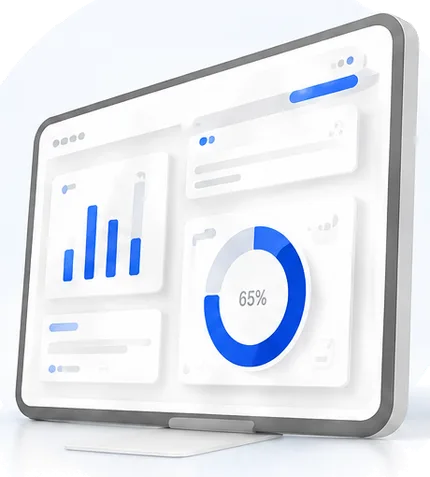
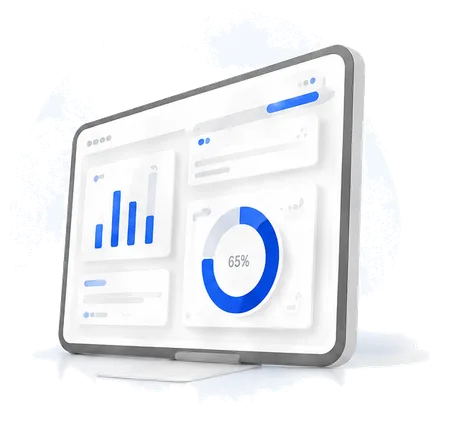
fix(홈화면): 역할 카드 그림 재작업(투명 처리 실패 수정) + 거짓 주석 정정
재검수 지적 반영. 직전 커밋에서 내가 만든 결함 2건이 핵심.

🔴 이미지 투명 처리가 사실상 안 됐다
  배경 판정을 "순백(min≥252)"으로 했는데 **원본 배경이 순백이 아니라 연파랑(약 241,247,254)** 이라
  모서리 조금만 지워졌다(투명 1.7%). 결과: 막으려던 그 네모(연파랑 사각형)를 카드에 깔았다.
  → 네 모서리 실측색 + 허용오차 방식으로 재작업. 일러스트를 후광까지 **통째로** 감싸 자르고
    흰 여백만 지웠다(투명 37%/50%, 사방 여백 확보). 20.7KB / 30.5KB.
  → 허용오차 40으로 후광까지 지우면 기기를 더 크게 쓸 수 있으나 **일러스트가 상한다**
    (배지 스캔 프레임·방패가 갉아먹힘 — 만들어 보고 확인). 주석에 남겼다.

🔧 카드 구조를 절대배치 → 가로 2칸(글 | 그림)으로 변경
  예전 방식은 그림 폭과 `padding-right`가 짝이라 한쪽만 고치면 글자가 그림에 겹쳤다.
  2칸 배치로 그 규칙 자체를 없앴다(.landing-role-body / -lg CSS 삭제).
  그림 폭 200px 근거: 카드 안쪽 456 − 항목 한 줄 최대 필요폭(실측 248) − 간격 18 = 190. +10 여유.
  230으로 뒀을 때는 8개 항목이 전부 두 줄이 됐다(실측) → 200에서 1개만 두 줄(원래 디자인과 같은 수준).

📝 거짓이 된 주석 정정
  - "실고객·최근 인증이 없으면 stats.enough=false" → 없는 필드 + 정반대 서술이었다.
  - "enough 조건 때문에 전부 0인 경우는 오지 않는다" → **지금 전부 0이 실제 상태**다.
    그 옆 `|| 1`이 유일한 0나누기 방어라 주석을 믿고 지우면 차트가 NaN으로 깨진다.
  - project-status.md의 "도넛 n=1 공개 구멍을 잡았다" → 같은 날 되돌렸음을 명시.

🔴 사장님 결정 1건 등재(0-N②): 도넛만 최소 인원을 되살릴지.
  방식을 고른 사람이 1명이면 "얼굴인증 100%"가 되어 그 사람의 생체정보 동의 사실이 공개된다
  (얼굴=민감정보, 사규 6항). 나머지 3개 기준과 성격이 다르다.

검증: tsc·eslint 0오류. 3001 실서버 1280/700/641/375px 실측 — 그림 로드(200×184 / 200×190),
글자·그림 겹침 0, 그림 카드 안, 카드 높이 300 동일, 두 줄 항목 1개, 640px 이하 그림 숨김,
가로 스크롤 0, 서버 응답 전부 200. 카드 바탕에 합성해 네모가 사라진 것도 눈으로 확인.

diff --git a/webapp/app/page.tsx b/webapp/app/page.tsx
@@ -105,8 +105,8 @@ const svg = (path: string, size = 22) =>
   `<svg width="${size}" height="${size}" viewBox="0 0 24 24" fill="none" stroke="currentColor" stroke-width="2" stroke-linecap="round" stroke-linejoin="round">${path}</svg>`;
 
 export default async function Home() {
-  // 홈화면 미리보기에 쓸 **실제 통계**. 실고객·최근 인증이 없으면 stats.enough=false로 오고,
-  // 그때는 미리보기 카드를 아예 렌더하지 않는다(0건·평평한 그래프를 판매 화면에 띄우지 않는다).
+  // 홈화면 미리보기에 쓸 **실제 통계**. 값이 0이어도 그대로 보여준다("처음부터 보여줘", 2026-08-09).
+  // 미리보기를 감추는 경우는 **DB 조회 실패(live.ok === false)** 하나뿐이다.
   // ⚠ 변수명이 `live`인 이유: 이 파일에는 아래쪽 숫자 밴드용 모듈 상수 `stats`가 이미 있다.
   //    `stats`로 두면 그것을 덮어버려 밴드가 깨진다(실제로 한 번 깨뜨렸다).
   const live = await getLandingStats();
@@ -446,7 +446,10 @@ function TrendChart({ trend, gradientId = "trendFill" }: { trend: { label: strin
   //    여기는 광고 화면이고 지표가 "건수"라 0 기준이 정직하다. **MIN을 다시 데이터에 맞추지 말 것.**
   const MIN = 0;
   // 눈금 간격: (최댓값 / 4)를 넘는 가장 작은 "보기 좋은 수" → 눈금이 3~5개로 떨어진다.
-  // 값이 전부 0이어도 0으로 나누지 않게 || 1. (실제로는 enough 조건 때문에 전부 0인 경우는 오지 않는다)
+  // 🔴 `|| 1`은 **0으로 나누기를 막는 유일한 방어**다. 지우면 hi=0에서 Math.log10(0)=-Infinity →
+  //    mag=0 → step=NaN이 되어 차트가 즉시 깨진다. 그리고 **"전부 0"은 지금 실제로 일어나는 상태다**
+  //    (실고객이 아직 0개사라 KPI·추이가 전부 0). 예전 주석은 "감추는 조건 때문에 0인 경우는 안 온다"고
+  //    적혀 있었는데, 그 조건을 없앴으므로(2026-08-09) 거짓이 됐다. **절대 정리하지 말 것.**
   const rough = hi / 4 || 1;
   const mag = Math.pow(10, Math.floor(Math.log10(rough)));
   // ⚠ 2.5는 **자리수(mag)가 10 이상일 때만** 후보로 쓴다. mag=1에서 2.5가 뽑히면 눈금이
@@ -612,17 +615,43 @@ function AuthDonut({ authMix }: { authMix: { label: string; pct: number }[] }) {
   );
 }
 
+// ── 역할 카드 ─────────────────────────────────────────────────────
+// 2026-08-09 사장님 지시로 오른쪽 그림을 제공 일러스트로 교체했다. 그러면서 **구조도 바꿨다**:
+//  · 예전: SVG 기기 테두리를 카드 오른쪽 아래에 **절대배치**로 얹고, 그 위에 우리 화면을 본뜬 UI
+//         (출근 버튼·관리자 메뉴바·KPI 칸)를 손으로 그려 넣었다. 글자가 그림 위로 올라타지 않게
+//         `padding-right`로 자리를 비워 뒀는데, **그림 폭과 그 값이 짝**이라 한쪽만 고치면 겹쳤다.
+//  · 지금: 카드 안을 **가로 2칸(글 | 그림)**으로 나눈다. 그림이 자기 자리를 차지하므로 겹칠 수가 없고
+//         `padding-right` 짝 맞추기도 필요 없다(그 CSS는 지웠다). 얹었던 UI도 삭제 —
+//         일러스트에 화면이 이미 그려져 있어 두 개가 겹쳤다.
+//
+// 그림은 사장님 원본(1536×1024)에서 **일러스트 한 덩어리씩 통째로** 잘랐다(후광 원 포함):
+//   role-employee.webp ← 원본 (90,168)에서 672×618 → 460px폭
+//   role-admin.webp    ← 원본 (834,176)에서 648×614 → 460px폭
+//   방식: 네 모서리 색을 배경으로 잡고 **허용오차 10 안쪽만 가장자리부터 채워** 투명 처리 → WebP(q82/알파90).
+// ⚠ 배경 판정을 "순백(min≥252)"으로 하면 **거의 지워지지 않는다** — 원본 배경이 순백이 아니라
+//    연파랑(약 241,247,254)인 자리도 있어서다. 실제로 그렇게 했다가 투명 픽셀이 1.7%뿐이어서
+//    카드 위에 **연파랑 네모가 그대로 드러났다**(검수 지적). **반드시 모서리 실측색 + 허용오차로 할 것.**
+// ⚠ 후광이 잘리지 않게 일러스트 **전체**를 감싸 자른다. 안쪽에서 자르면 후광 단면이 직선으로 남는다.
+// ⚠ 허용오차를 40까지 올려 후광까지 지우면 기기를 더 크게 쓸 수 있지만, **일러스트가 상한다** —
+//    배지 주변 스캔 프레임과 방패(연파랑 ~200~220)가 갉아먹혔다(실제로 만들어 보고 확인). 10을 유지할 것.
+//
+// ⚠ 그림 폭 200px의 근거: 카드 안쪽 폭 456 − 글 항목이 한 줄에 필요한 최대폭(실측 248) − 간격 18 = 190.
+//    여기에 10px 더해 200으로 잡았다(8개 항목 중 가장 긴 1개만 두 줄). **더 키우면 항목이 전부 두 줄이 된다**
+//    (230으로 했을 때 실측: 글자 폭 208 → 8개 전부 두 줄). 글을 늘리거나 줄이면 이 값을 다시 재야 한다.
+const ROLE_ART_W = 200;
 function RoleCard({ title, sub, items, iconPath, device }: { title: string; sub: string; items: string[]; iconPath: string; device: "phone" | "laptop" }) {
+  // 두 그림의 가로:세로가 조금 달라 각자 넘긴다(460×423 / 460×436)
+  const art = device === "phone"
+    ? { src: "/role-employee.webp", w: 460, h: 423 }
+    : { src: "/role-admin.webp", w: 460, h: 436 };
+  const h = Math.round((ROLE_ART_W * art.h) / art.w);
   return (
-    // 최소 높이(그림 236px + 아래 여백 18px이 잘리지 않게)는 globals.css의 .landing-role-card에 있다.
+    // 최소 높이는 globals.css의 .landing-role-card에 있다.
     // ⚠ 인라인으로 두면 안 된다 — 기기 그림이 사라지는 좁은 화면(≤640px)에서 해제할 방법이 없어
     //    그림도 없는 카드 아래에 빈 띠가 남는다(검수 지적).
-    <div className="landing-role-card" style={{ position: "relative", overflow: "hidden", background: "var(--landing-card,#fff)", borderRadius: 16, padding: "28px 26px", boxShadow: "0 8px 30px var(--landing-shadow)" }}>
-      {/* 두 그림의 세로/가로 비율이 조금 달라 각자 넘긴다(430×471 / 430×477) */}
-      {device === "phone"
-        ? <RoleArt src="/role-employee.webp" ratio={430 / 471} />
-        : <RoleArt src="/role-admin.webp" ratio={430 / 477} />}
-      <div className={device === "phone" ? "landing-role-body" : "landing-role-body-lg"}>
+    <div className="landing-role-card" style={{ display: "flex", alignItems: "center", gap: 18, overflow: "hidden", background: "var(--landing-card,#fff)", borderRadius: 16, padding: "28px 26px", boxShadow: "0 8px 30px var(--landing-shadow)" }}>
+      {/* minWidth: 0 — 없으면 글자가 안 줄어들어 그림을 밀어내고 카드가 가로로 넘친다(격자 기본값 함정) */}
+      <div style={{ flex: 1, minWidth: 0 }}>
         <div style={{ display: "flex", alignItems: "center", gap: 12, marginBottom: 20 }}>
           <div style={{ width: 40, height: 40, borderRadius: 11, background: "linear-gradient(135deg,#2563EB,#60A5FA)", color: "#fff", display: "flex", alignItems: "center", justifyContent: "center", flexShrink: 0 }} dangerouslySetInnerHTML={{ __html: svg(iconPath, 20) }} />
           <div>
@@ -639,30 +668,8 @@ function RoleCard({ title, sub, items, iconPath, device }: { title: string; sub:
           ))}
         </div>
       </div>
-    </div>
-  );
-}
-
-// ── 역할 카드 오른쪽 그림 ─────────────────────────────────────────
-// 2026-08-09: 예전에는 SVG 기기 테두리 위에 우리 화면을 본뜬 UI(출근 버튼·관리자 메뉴바·KPI 칸)를
-// **손으로 얹어** 만들었다. 사장님이 3D 일러스트를 주셔서 그림 한 장으로 갈아끼웠고,
-// 얹었던 UI는 함께 지웠다(일러스트에 화면이 이미 그려져 있어 두 개가 겹쳤다).
-//
-// 이미지는 사장님 원본(1536×1024, 흰 배경)에서 두 덩어리를 잘라 만들었다:
-//   role-employee.webp ← 원본 185,215 위치에서 470×515 (폰 + 얼굴인식 배지 + 방패)
-//   role-admin.webp    ← 원본 900,225 위치에서 460×510 (모니터 대시보드)
-// ⚠ **테두리에 붙은 순백색만 투명 처리**했다(폰 화면 안쪽 흰색은 테두리와 이어지지 않아 살아남는다).
-//    통째로 흰 배경을 깔면 카드 바탕(위 흰색 → 아래 #F8FBFF 그라데이션) 위에 흰 네모가 드러난다.
-//    각 13~15KB. **원본을 다시 자를 일이 생기면 이 방식(가장자리 채우기)을 그대로 쓸 것.**
-//
-// ⚠ 표시 폭 215px은 globals.css `.landing-role-body{padding-right}`와 **짝**이다.
-//    글자가 그림 위로 올라타지 않게 비워 둔 자리이므로, 폭을 바꾸면 그 값도 함께 바꿔야 한다.
-const ROLE_ART_W = 215;
-function RoleArt({ src, ratio }: { src: string; ratio: number }) {
-  return (
-    <div className="landing-device" style={{ position: "absolute", right: 10, bottom: 18, width: ROLE_ART_W, height: Math.round(ROLE_ART_W / ratio), pointerEvents: "none" }}>
       {/* eslint-disable-next-line @next/next/no-img-element -- 크기가 고정된 장식용 이미지. 최적화 대상 아님 */}
-      <img src={src} alt="" width={ROLE_ART_W} height={Math.round(ROLE_ART_W / ratio)} />
+      <img className="landing-device" src={art.src} alt="" width={ROLE_ART_W} height={h} loading="lazy" decoding="async" style={{ flexShrink: 0 }} />
     </div>
   );
 }

diff --git a/webapp/app/globals.css b/webapp/app/globals.css
@@ -314,14 +314,10 @@ details.faq[open] > summary .faq-chevron { transform: rotate(180deg); }
   font-size: 11px; color: #9CA3AF; font-variant-numeric: tabular-nums;
 }
 
-/* 직원/관리자 카드 안 기기 그림 — 글 오른쪽에 자리를 비워 두고 그 자리에 얹는다.
-   ⚠ 236px = 그림 폭 215(page.tsx의 ROLE_ART_W) + 오른쪽 여백 10 + 글과의 간격 11.
-      **page.tsx에서 그림 폭을 바꾸면 이 값도 같이 바꿀 것** — 안 그러면 글자가 그림 위로 올라탄다.
-   ※ 2026-08-09 이전에는 폰(152px)과 노트북(232px)이 서로 달랐다. 두 그림 크기를 같게 맞춰서
-      값도 하나로 통일했지만, 클래스는 둘 다 남겨 뒀다(나중에 한쪽만 키울 수 있게). */
-.landing-role-body { padding-right: 236px; }
-.landing-role-body-lg { padding-right: 236px; }
-/* 그림 높이가 최대 238px(+아래 여백 18)이라 카드가 그보다 낮으면 그림 위가 잘린다 → 바닥값을 준다 */
+/* 직원/관리자 카드 — 카드 안이 가로 2칸(글 | 그림)이라 글자가 그림 위로 올라탈 수가 없다.
+   ※ 2026-08-09 이전에는 그림을 절대배치로 얹고 `.landing-role-body{padding-right}`로 자리를 비웠는데,
+      **그림 폭과 그 값이 짝**이라 한쪽만 고치면 글자가 그림에 겹쳤다. 2칸 배치로 바꿔 그 규칙을 없앴다.
+   두 카드의 높이를 맞추기 위한 바닥값만 남긴다(그림 높이 최대 218px + 위아래 여백 56px = 274px). */
 .landing-role-card { min-height: 300px; }
 
 @media (max-width: 1200px) {
@@ -345,11 +341,10 @@ details.faq[open] > summary .faq-chevron { transform: rotate(180deg); }
         **눈금·말풍선을 빼면 이 값을 700으로 되돌려도 된다.** */
   .landing-chart-grid { grid-template-columns: 1fr; }
 }
-/* 카드가 한 줄로 접히면 기기 그림이 글을 가릴 만큼 좁아진다 → 그림을 빼고 여백도 되돌린다 */
+/* 카드가 한 줄로 접히면 그림 몫(230px)까지 나눠 쓸 폭이 안 나온다 → 그림을 뺀다(글이 폭을 다 쓴다) */
 @media (max-width: 640px) {
   .landing-device { display: none; }
-  .landing-role-body, .landing-role-body-lg { padding-right: 0; }
-  /* 기기 그림이 사라졌으니 바닥값도 해제한다 — 안 그러면 카드 아래에 빈 띠만 남는다 */
+  /* 그림이 사라졌으니 바닥값도 해제한다 — 안 그러면 카드 아래에 빈 띠만 남는다 */
   .landing-role-card { min-height: 0; }
 
   /* 차트가 이보다 좁아지면(폰) 높이가 100px 아래로 떨어져 눈금 숫자가 서로 붙고,

diff --git a/webapp/lib/public-stats.ts b/webapp/lib/public-stats.ts
@@ -157,6 +157,11 @@ export async function getLandingStats(): Promise<LandingStats> {
     const gpsN = byMethod.find((m) => m.authMethod === "gps")?._count._all ?? 0;
     const pickedN = faceN + gpsN;
     // 아무도 방식을 고르지 않았으면(분모 0) 비율을 만들 수 없어 도넛을 비운다 — 화면은 꺾은선만 넓게 그린다.
+    // 🔴 **여기에는 최소 인원 기준이 없다.** 방식을 고른 사람이 1명이면 도넛은 "얼굴인증 100%"가 되고,
+    //    그건 통계가 아니라 **그 한 사람이 생체정보(얼굴) 이용에 동의했다는 사실**을 로그인 없이 공개하는 것이다
+    //    (얼굴=민감정보 — 상위 사규 6항). 예전에 `pickedN >= 10` 기준이 있었으나 2026-08-09에
+    //    "미리보기를 처음부터 보여줘" 지시로 다른 기준들과 함께 **되돌렸다**.
+    //    ⚠ 사장님 확인 대기 항목이다(project-status.md 0-N) — 도넛만 최소 인원을 되살릴지 결정이 필요하다.
     const facePct = pickedN > 0 ? Math.round((faceN / pickedN) * 100) : 0;
     const authMix = pickedN > 0
       ? [{ label: "얼굴인증", pct: facePct }, { label: "GPS", pct: 100 - facePct }]

diff --git a/project-status.md b/project-status.md
@@ -10,7 +10,7 @@
 
 | 순서 | 할 일 | 어디에 |
 |---|---|---|
-| 0-N | **🔴 홈화면 실데이터 — 약관에 반드시 넣을 조항 1건 + 확인 사항**(2026-08-09). ①**이용약관·개인정보처리방침에 "고객사 통계를 익명 합계로 공개 게시" 조항을 넣어야 한다** — 사장님이 "나중에 약관 만들 때 추가"로 확정. 0-B③(약관 페이지 자체가 없음)과 **반드시 함께** 처리한다. ⚠ 사장님 지시로 공개 최소 기준을 없애 **회사가 1곳일 때 그 회사(직원 1명이면 그 개인)의 근태가 공개되는 위험을 코드가 막지 않는다** — 이 조항이 그 근거가 된다 ②`㈜하늘테크` = **테스트 업체 확인 완료**(회사 5개 전부 `isDemo=true`) ③**테스트 회사 관리 화면 없음** — 앞으로 만드는 테스트 회사는 기본값이 "집계 포함"이라 DB에서 직접 `isDemo=true`로 바꿔야 함(사장님 확인 완료) | 아래 0-N-1 |
+| 0-N | **🔴 홈화면 실데이터 — 약관에 반드시 넣을 조항 1건 + 확인 사항**(2026-08-09). ①**이용약관·개인정보처리방침에 "고객사 통계를 익명 합계로 공개 게시" 조항을 넣어야 한다** — 사장님이 "나중에 약관 만들 때 추가"로 확정. 0-B③(약관 페이지 자체가 없음)과 **반드시 함께** 처리한다. ⚠ 사장님 지시로 공개 최소 기준을 없애 **회사가 1곳일 때 그 회사(직원 1명이면 그 개인)의 근태가 공개되는 위험을 코드가 막지 않는다** — 이 조항이 그 근거가 된다 ②**🔴 사장님 결정 1건 — 도넛(인증 방식 비율)만 최소 인원을 되살릴지.** "처음부터 보여줘"로 4개 기준을 다 없앴는데, 그중 이것 하나만 성격이 다르다: 방식을 고른 사람이 1명이면 도넛이 "얼굴인증 100%"가 되어 **그 사람이 생체정보(얼굴) 이용에 동의했다는 사실**이 로그인 없이 공개된다(얼굴=민감정보, 사규 6항). 나머지 3개(회사·직원·기록 수)는 그냥 보여줘도 되지만 이것만 "몇 명 이상일 때만 표시"로 둘지 결정 필요 ③`㈜하늘테크` = **테스트 업체 확인 완료**(회사 5개 전부 `isDemo=true`) ④**테스트 회사 관리 화면 없음** — 앞으로 만드는 테스트 회사는 기본값이 "집계 포함"이라 DB에서 직접 `isDemo=true`로 바꿔야 함(사장님 확인 완료) | 아래 0-N-1 |
 | 0-A | **🟠 홈화면 — 사장님 결정 4건 대기**(2026-08-06 작업분. ※①은 2026-08-08에 파란 그라데이션으로 처리됨). ①히어로 배경을 **흰색 그대로 둘지, 연파랑으로 되돌릴지**(흰색이라 맨 위 메뉴바 구분이 1px 선뿐) ②왼쪽 물결을 **더 키울지**(키우려면 글자 폭 700px를 줄여야 함, 1:1로 맞바꿈) ③**문의 이메일·전화** 주시면 헤더 메뉴 "지금 시작하기" → "문의하기"로 되돌림 ④역할 카드가 641~1079px 구간에서 1열이라 **가운데가 비어 보이는 것** 손볼지 | 아래 0-0 |
 | 0-B | **🔴 홈화면 — 배포 전 반드시**(법적). ①통계 밴드 **"100% / 근로기준법 대응"** = 근거 없는 절대 표현 ②히어로 **"급여 연동까지"** 가 같은 페이지 FAQ의 "직접 연동은 순차 추가 중"과 **정면 모순**(한 화면 안 자기모순은 실증 요구 시 방어 불가) ③**이용약관·개인정보처리방침 페이지 없음** — 생체정보 처리 서비스라 공개 배포 차단 요인 ④900px 이하에서 헤더 메뉴 5개가 사라짐(모바일 햄버거 미구현) | 아래 0-0 |
 | 0 | **🔴 이어서 할 일 — 비밀번호 발급 방식 통일**(2026-08-05 남긴 것). ①[직원 상세]의 비밀번호 직접 재설정([employees.ts:281](webapp/app/actions/employees.ts:281))이 아직 **영구 비밀번호**로 남는다(직원 추가만 고쳤다 — 분실 재설정이 더 잦아 절반만 막힌 셈) ②**근본안**: 관리자가 비밀번호를 타이핑하지 않게 하고 서버가 무작위 생성 → 자동완성·"관리자가 아는 비번"·문자 가드 문제가 한 번에 사라진다 | 아래 0-0-B |
@@ -64,6 +64,7 @@
 **검수 이력(같은 리뷰어 2회)**: 치명 3건 — ①실고객 1개사면 그 회사·개인 정보 공개 ②테스트 회사 제외가
 마이그레이션에 없어 다른 DB에서 허위표시 ③말풍선이 "0건"을 가리킴. 재검수에서 **내가 새로 심은 결함 2건**
 (눈금 "0/2.5/5/7.5" 소수화, 차트 제목만 "인증"으로 남음)과 도넛 n=1 공개 구멍을 추가로 잡았다.
+⚠ **단, 도넛 n=1 가드는 같은 날 "처음부터 보여줘" 지시로 다른 기준들과 함께 되돌렸다**(아래 0-N② 확인 대기).
 **"고쳤다"고 보고한 항목이 실제로 안 고쳐진 경우가 있었다 → 재검수가 그걸 잡았다.**
 
 **검증 방식(그대로 따라 할 것)**: DB 쓰기 권한이 막혀 있어(정책) 목업 행을 넣지 않고,
